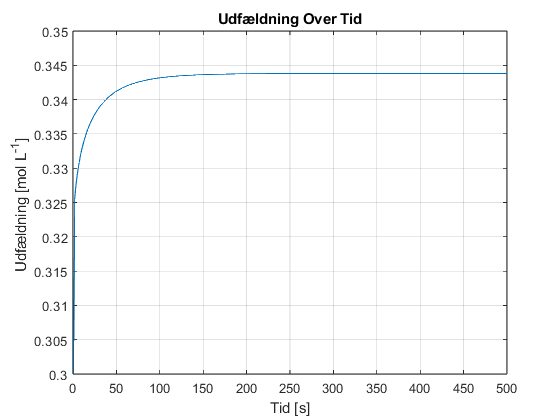
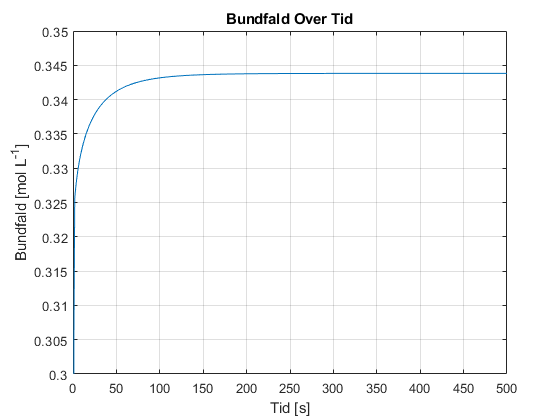
BIG CHANGE

Changed region(s): [[0.1214, 0.031, 0.9107, 0.8976], [0.0, 0.3405, 0.0607, 0.65], [0.425, 0.1548, 0.4857, 0.1857]]

diff --git a/Main_Simulation.m b/Main_Simulation.m
@@ -89,7 +89,7 @@ for j = 2:time_steps
         % Apply the diffusion-advection-(electromigration) equation
         C(i, j) = C(i, j-1) + dt * (Jdiff + Jadv);
         Jkonv_values(j) = Jkonv; % Plot values
-        Cuw_values(j) = Cbw; 
+        Cbw_values(j) = Cbw; 
         AS(j) = Jkonv * dt/dx; % Stability plot values
     end
 end
@@ -123,28 +123,17 @@ grid on;
 % Plot Percipitate (DS) values over time
 
 figure;
-plot(t, Cuw_values);
+plot(t, Cbw_values);
 xlabel('Tid [s]');
-ylabel('Udfældning [mol L^{-1}]');
-title('Udfældning Over Tid');
+ylabel('Bundfald [mol L^{-1}]');
+title('Bundfald Over Tid');
 grid on;
 ylim([0.3, 0.35]);
-
-
-
-% Plot Percipitate (DS) values over time
-
-figure;
-plot(t, Cuw_values);
-xlabel('Time (seconds)');
-ylabel('percipitate ');
-title('percipitate  Over Time');
-grid on;
 
 % Plot Advection Stability (DS) values over time
 
 figure;
-plot(t, AS);
+plot(t(2:end), AS(2:end));
 xlabel('Tid [s]');
 ylabel('Advection Stabilitet');
 title('Advection Stabilitet Over Tid');
@@ -152,13 +141,12 @@ grid on;
 
 % Plot Jkonv values over time
 figure;
-plot(t, Jkonv_values);
+plot(t(2:end), Jkonv_values(2:end));
 xlabel('Tid [s]');
 ylabel('J_{konv} [m s^{-1}]');
 title('J_{konv} [m s^{-1}] Over Tid');
 grid on;
 xlim([0, 500]);
-ylim([1.09*10^-6, 1.13*10^-6]);
 ax = gca;
 ax.YAxis.Exponent = -6;
 
@@ -178,11 +166,11 @@ for i = 1:length(time_instances)
     plot(x, C(:, time_index));
 end
 
-xlabel('Position (meters)');
-ylabel('Concentration');
-title('Concentration Over Time at Different Instances');
-xlim([0.0975, Lx]);
-ylim([0.1, 0.118]);
+xlabel('Position [m]');
+ylabel('Koncentration [mol L^{-1}]');
+title('Koncentration over Position ved Forskellige Tidsfraktioner');
+xlim([0.099, Lx]);
+ylim([0.1, 0.12]);
 
 % Add a legend for clarity
 legend(arrayfun(@(f) ['t=', num2str(f)], time_fraction, 'UniformOutput', false));
@@ -197,20 +185,74 @@ hold off;
 [T, X] = meshgrid(t, x);
 figure;
 h = surf(X, T, C); % Transpose removed here
-xlabel('Position (meters)');
-ylabel('Time (seconds)');
-zlabel('Concentration');
-title('Concentration Over Time and Position');
+xlabel('Position [m]');
+ylabel('Tid [s]');
+zlabel('Koncentration [mol L^{-1}]');
+title('Koncentration Over Tid og Position');
 
 % Set axis limits to start at the origin
 xlim([0, Lx]);
 ylim([0, Lt]);
-zlim([0, 0.15]); % Assuming max(C(:)) is the maximum concentration in your data
+zlim([0.1, 0.12]); % Assuming max(C(:)) is the maximum concentration in your data
 
 set(h,'LineStyle','none')
 colormap(jet)
-clim([0.1 0.115])
+clim([0.1, 0.11])
 
+%%
+load('step1jv.mat', 'Jv_values1');
+load('step2jv.mat', 'Jv_values2');
+load('step3jv.mat', 'Jv_values3');
+load('step4jv.mat', 'Jv_values4');
 
+% Remove the first value from each series
+Jv_values1 = Jv_values1(2:end);
+Jv_values2 = Jv_values2(2:end);
+Jv_values3 = Jv_values3(2:end);
+Jv_values4 = Jv_values4(2:end);
 
+%%
 
+% Create a figure for the first plot
+figure;
+hold on;
+x = linspace(0, 500, 500);
+
+plot(x(2:end), Jv_values1, 'LineWidth', 1.5);
+plot(x(2:end), Jv_values2, 'LineWidth', 1.5);
+plot(x(2:end), Jv_values3, 'LineWidth', 1.5);
+plot(x(2:end), Jv_values4, 'LineWidth', 1.5);
+
+xlabel('Time (seconds)');
+ylabel('Jv (Velocity)');
+title('Jv (Velocity) Over Time');
+grid on;
+
+legend('Step 1', 'Step 2', 'Step 3', 'Step 4');
+%% Double Y-axis Jv graph
+figure;
+
+% Plot Step 2 on the left y-axis
+yyaxis left;
+plot(x(2:end), Jv_values2, 'LineWidth', 1.5, 'LineStyle', '-'); 
+ylabel('J_{v} [m^{3} m^{-2} s^{-1}]');
+
+hold on;
+
+% Plot Step 3 on the left y-axis
+plot(x(2:end), Jv_values3, 'LineWidth', 1.5, 'LineStyle', '--');
+ylim([1.825*10^-5, 1.865*10^-5]);           % y-limit for left
+ylabel('J_{v} [m^{3} m^{-2} s^{-1}]');
+
+% Plot Step 4 on the right y-axis
+yyaxis right;
+ylim([1.2*10^-5, 1.24*10^-5]);               % y-limit for right
+
+plot(x(2:end), Jv_values4, 'LineWidth', 1.5);
+ylabel('J_{v} [m^{3} m^{-2} s^{-1}]');
+
+xlabel('Tid [s]');
+title('J_{v} Over Tid');
+grid on;
+
+legend('Step 2', 'Step 3', 'Step 4');

diff --git a/step4.m b/step4.m
@@ -133,7 +133,7 @@ ylim([0.3, 0.35]);
 % Plot Advection Stability (DS) values over time
 
 figure;
-plot(t, AS);
+plot(t(2:end), AS(2:end));
 xlabel('Time (seconds)');
 ylabel('Advection Stability');
 title('Advection Stability Over Tid');

diff --git a/Jv_Graphs.m b/Jv_Graphs.m
@@ -66,5 +66,3 @@ title('J_{v} Over Tid');
 grid on;
 
 legend('Step 2', 'Step 3', 'Step 4');
-
-
